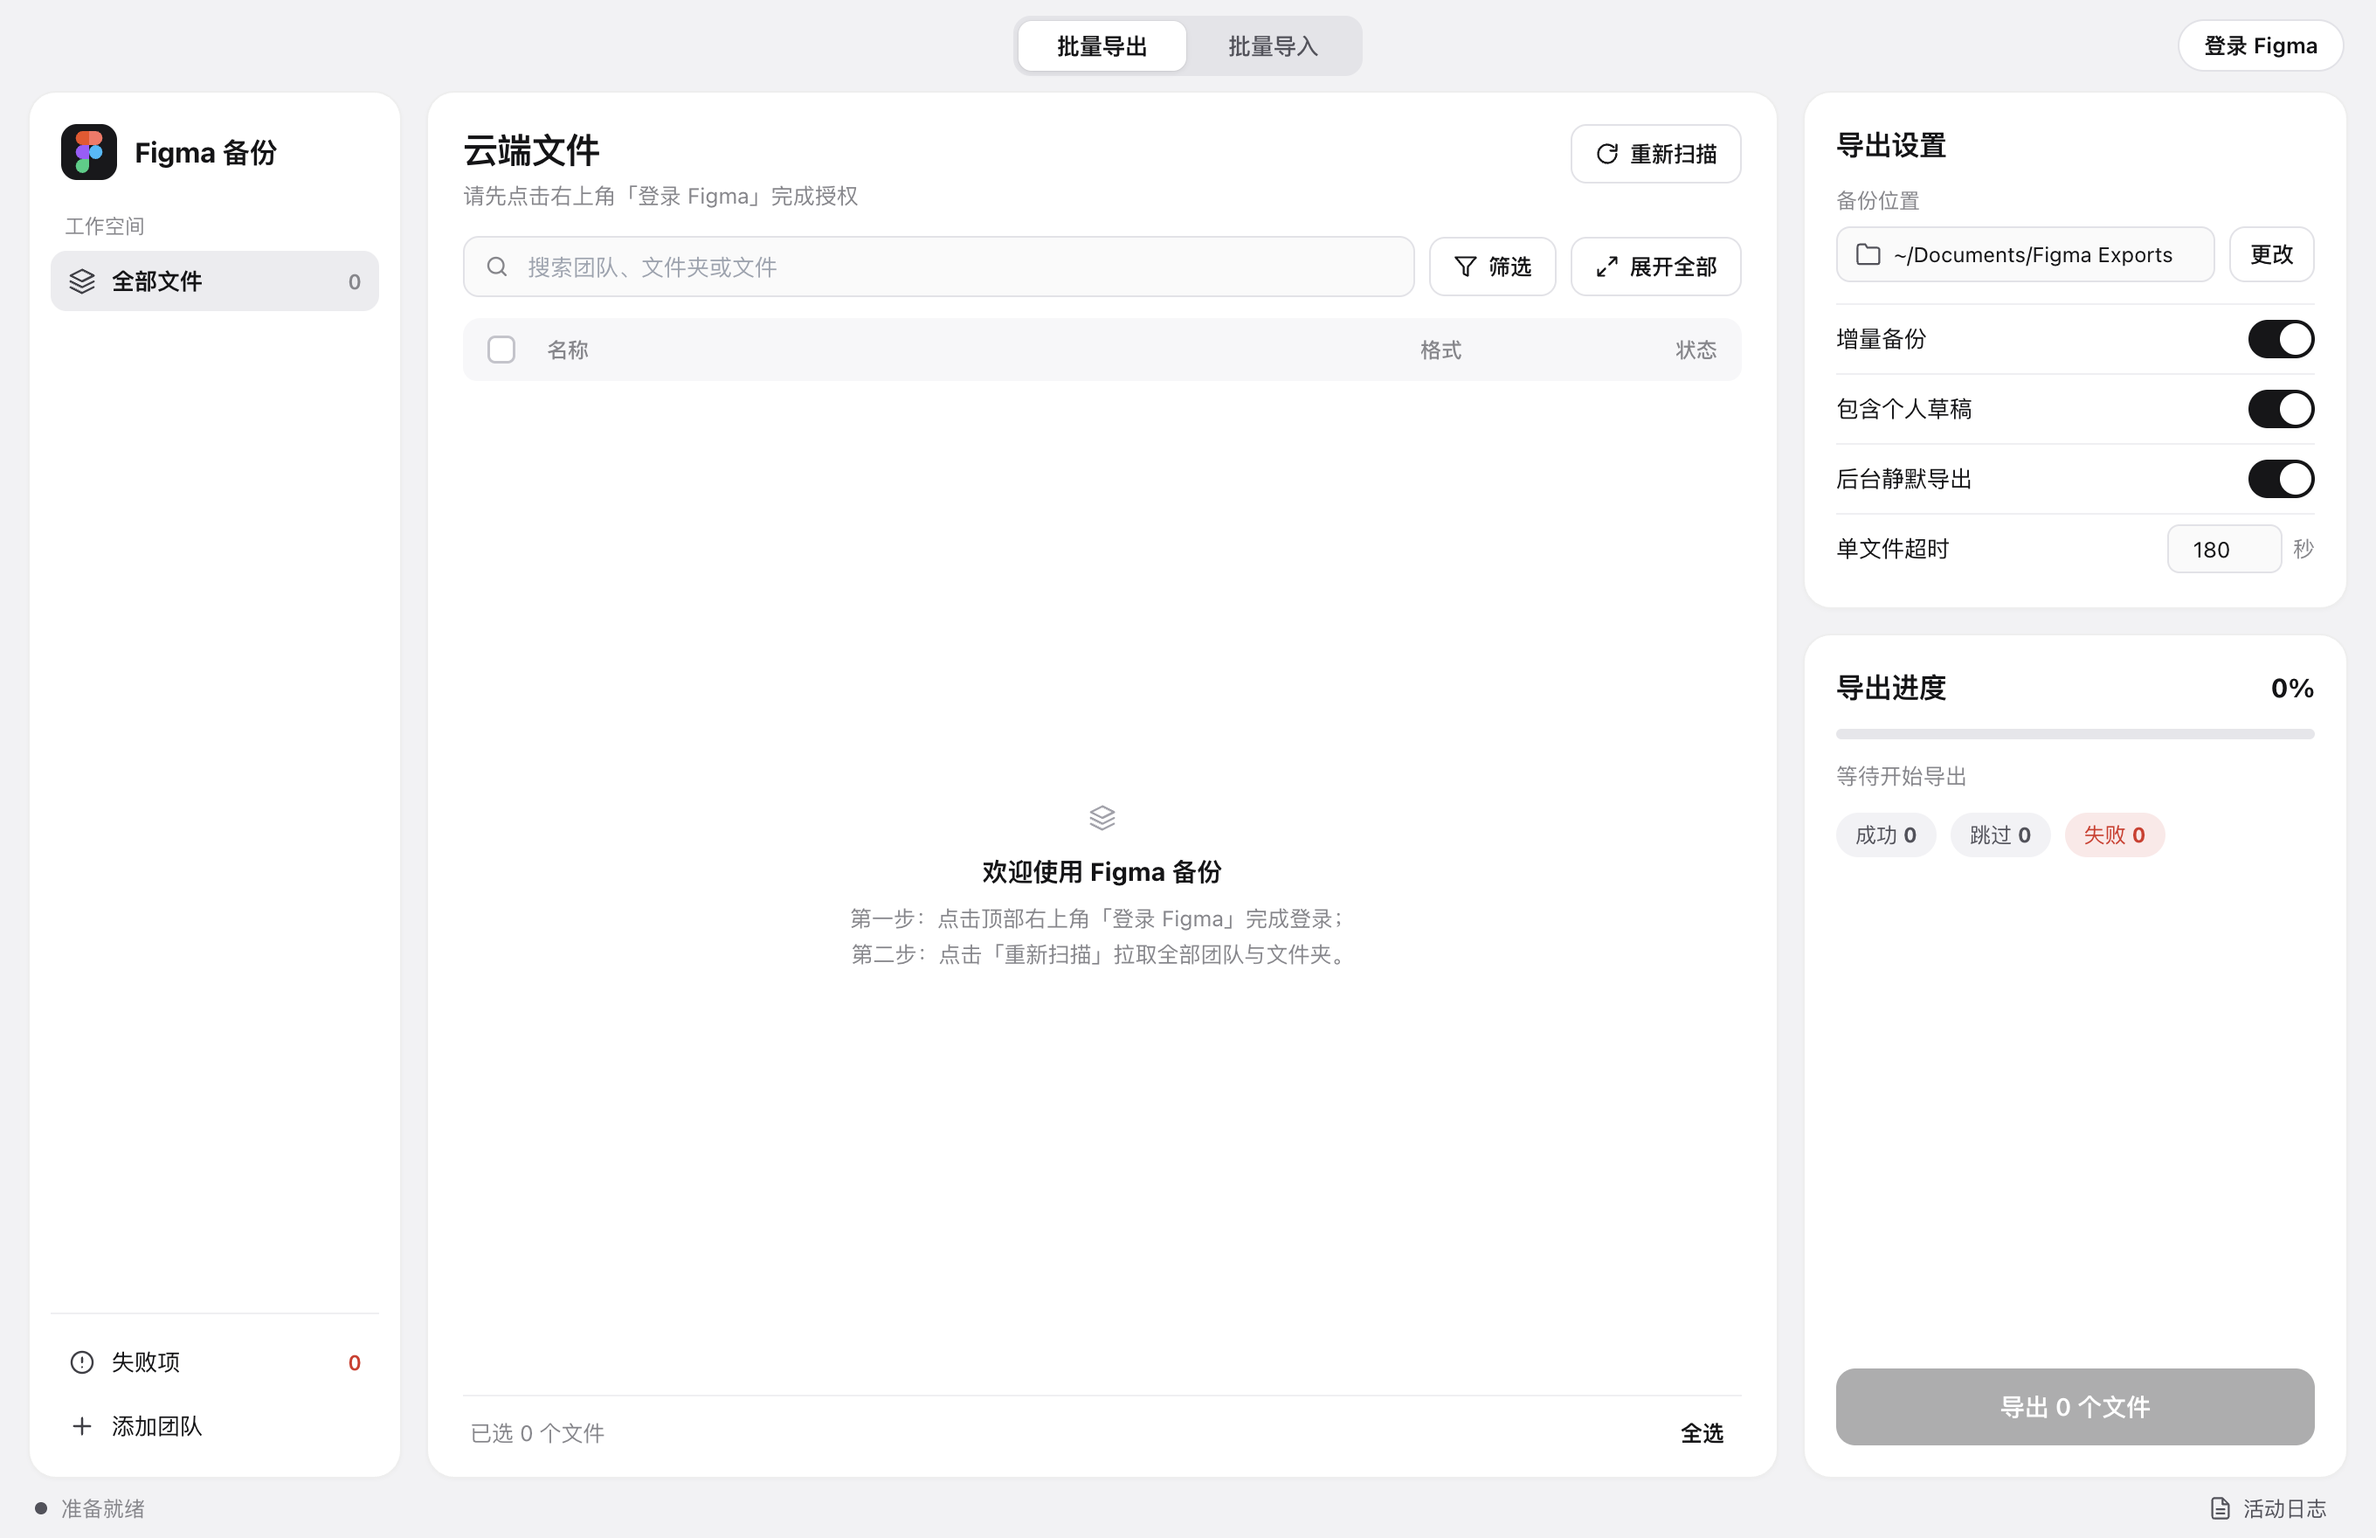
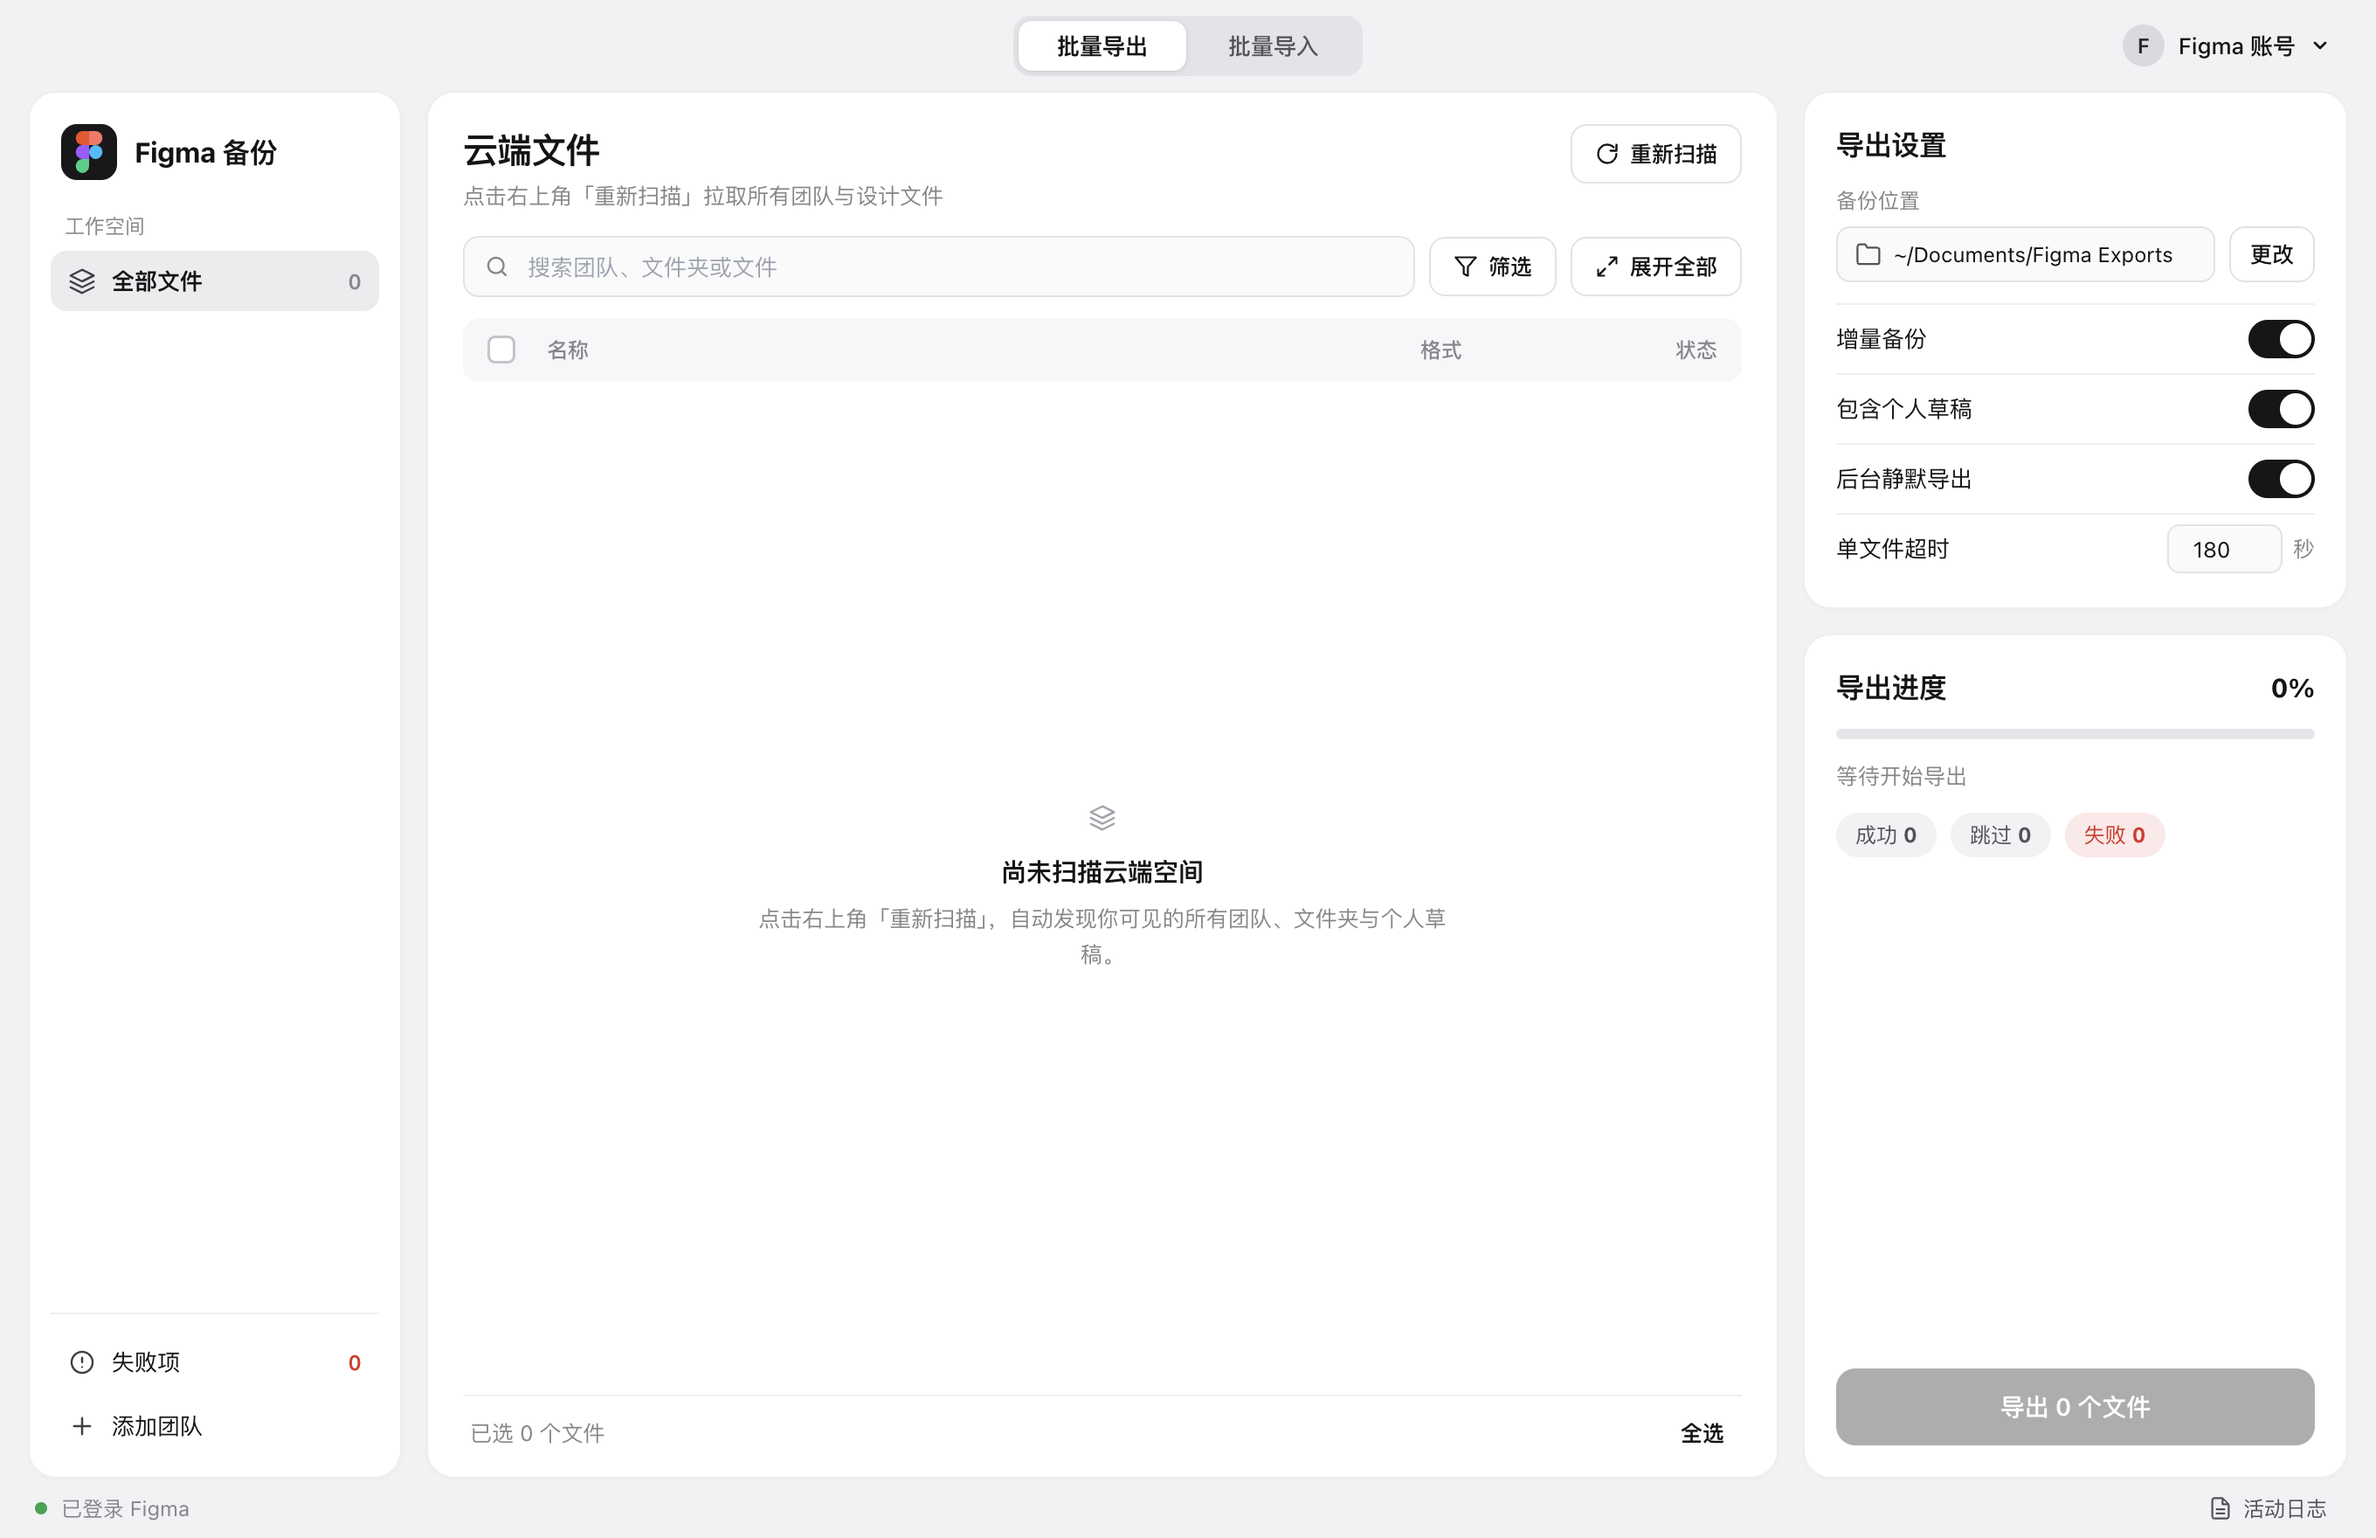
Show signed-in app screenshots

diff --git a/README.md b/README.md
@@ -17,6 +17,8 @@ Figma 文件批量导入导出工具，支持 macOS 和 Windows。
 
 ## 应用截图
 
+以下为登录 Figma 后的 macOS 应用界面，账号信息已匿名化。
+
 ### 批量导出
 
 ![批量导出界面，包含工作空间、文件列表和导出配置](docs/screenshots/bulk-export.png)
